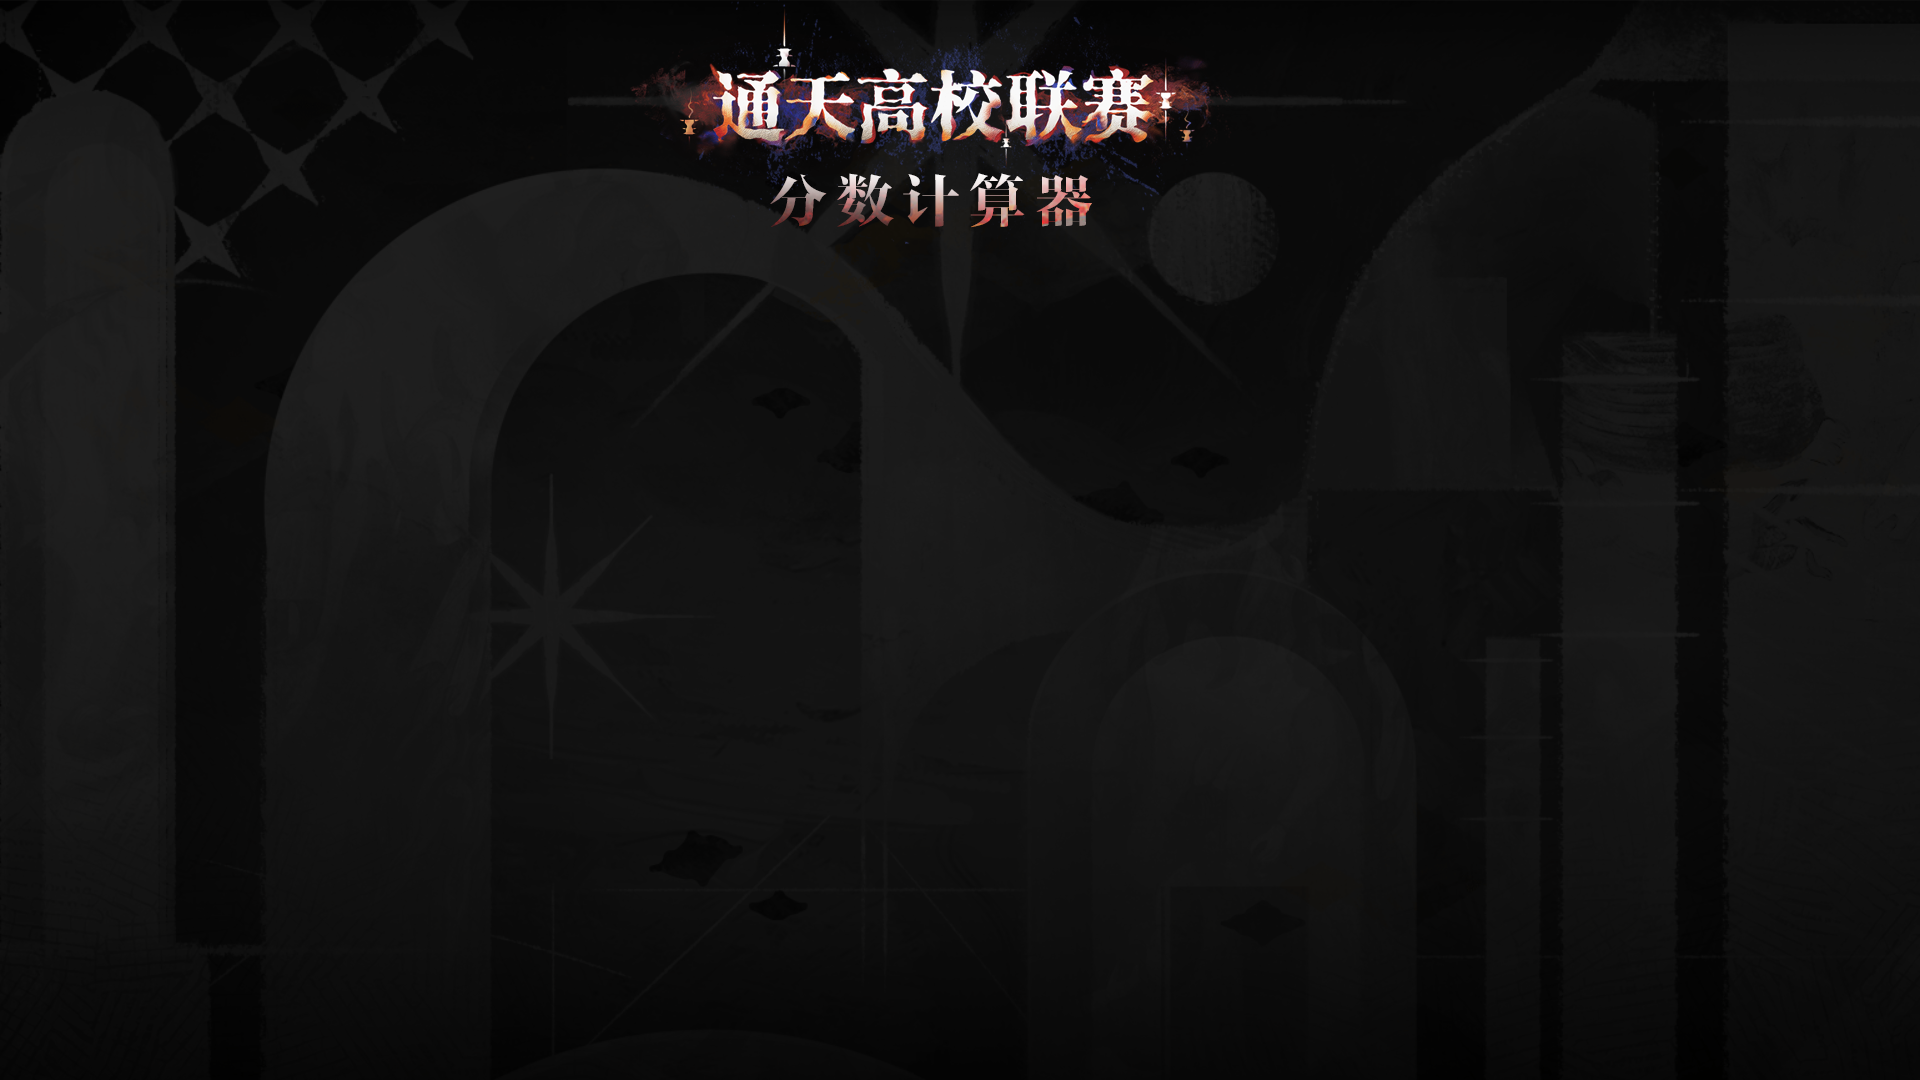
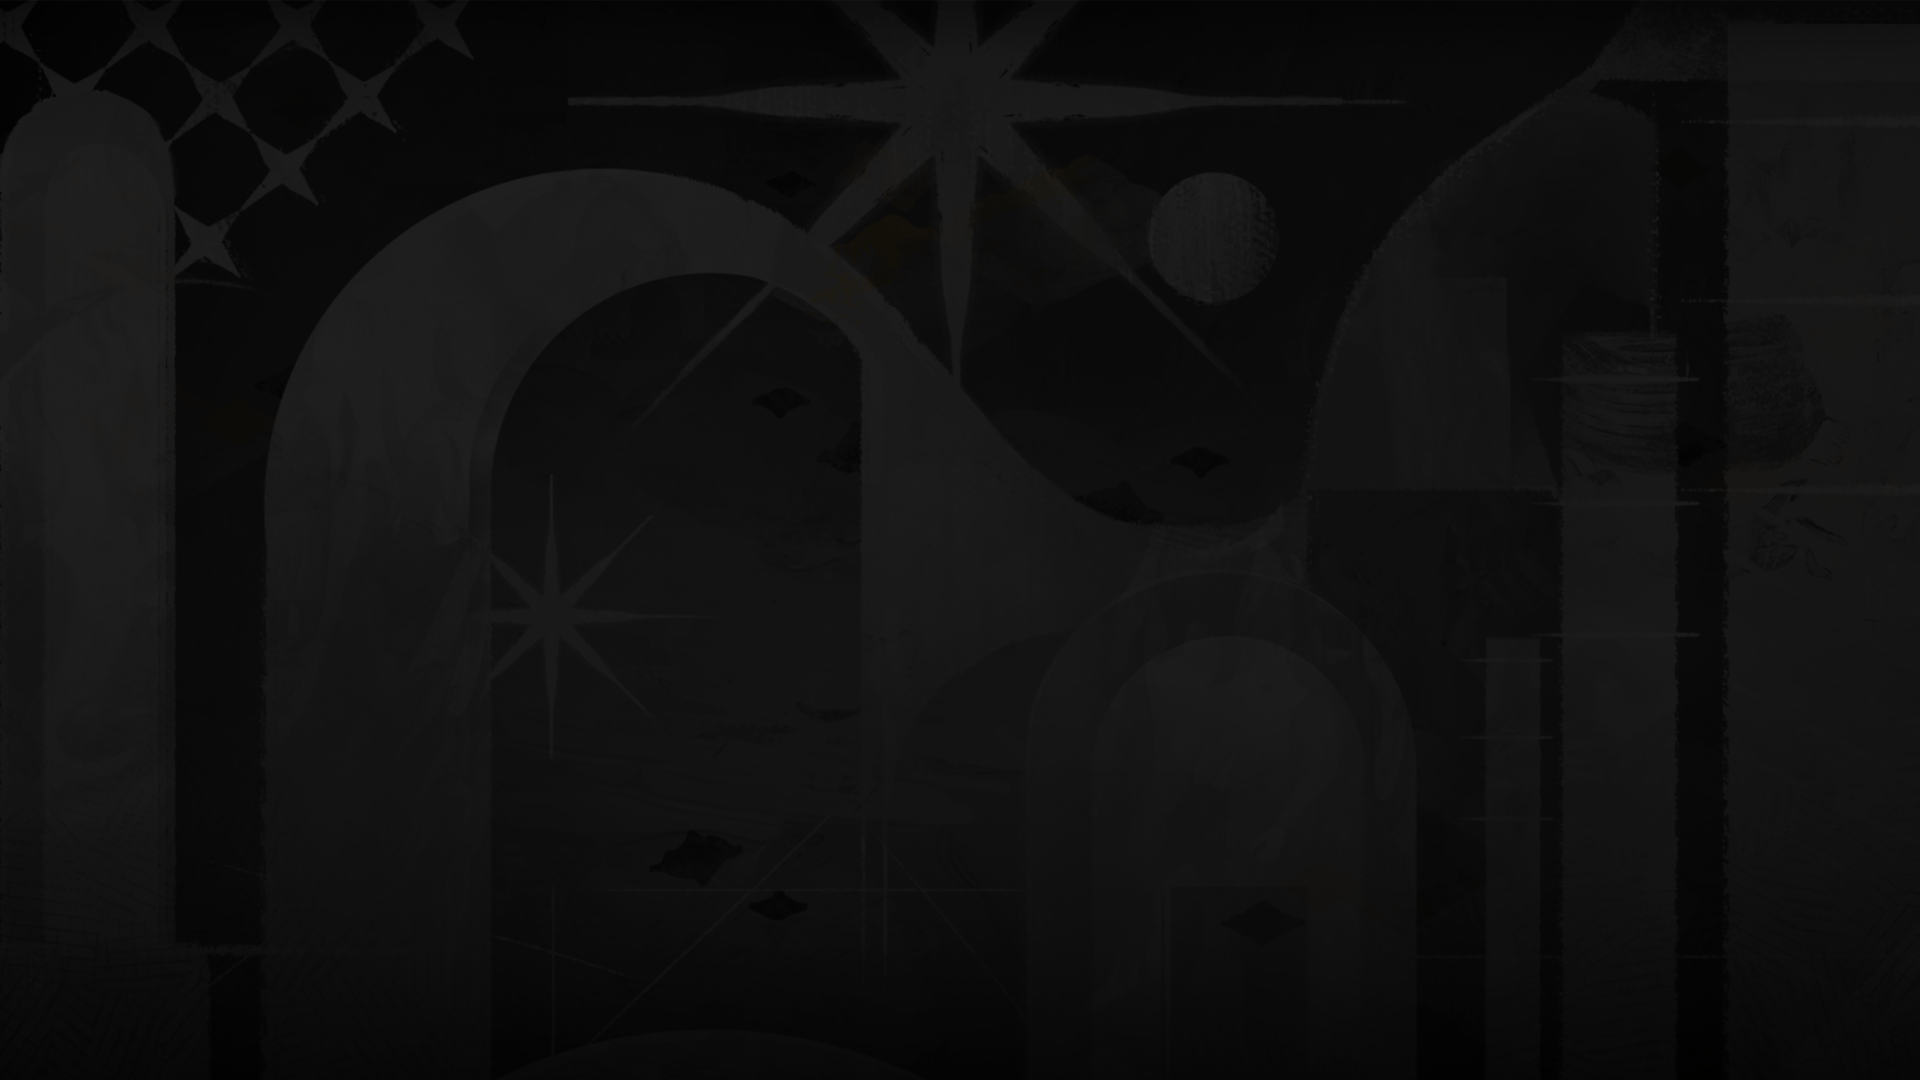
拆开了背景和标题图片

Changed region(s): [[0.3438, 0.0306, 0.625, 0.2139]]

diff --git a/src/App.vue b/src/App.vue
@@ -3,8 +3,8 @@
 <template>
     <div class="app-container">
         <div class="app">
-            <div>
-                <h1 style="text-align: center;"></h1>
+            <div class="titleImage-container">
+                <img src="@/assets/all/title.png" alt="Title Image" />
             </div>
             <div class="app-column-container">
                 <div class="app-column-1">
@@ -259,8 +259,13 @@ export default {
     justify-content: center;
 }
 
+.titleImage-container {
+    display: flex;
+    justify-content: center;
+    align-items: center;
+}
+
 .app-container {
-    padding-top: 25vh;
     /* background-color: #000; */
     background-image: url('assets/background.png');
     background-size: cover;
